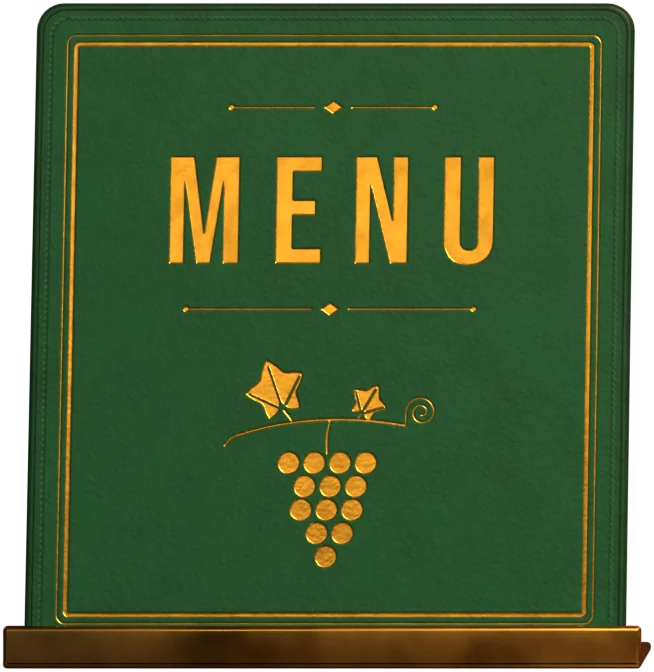
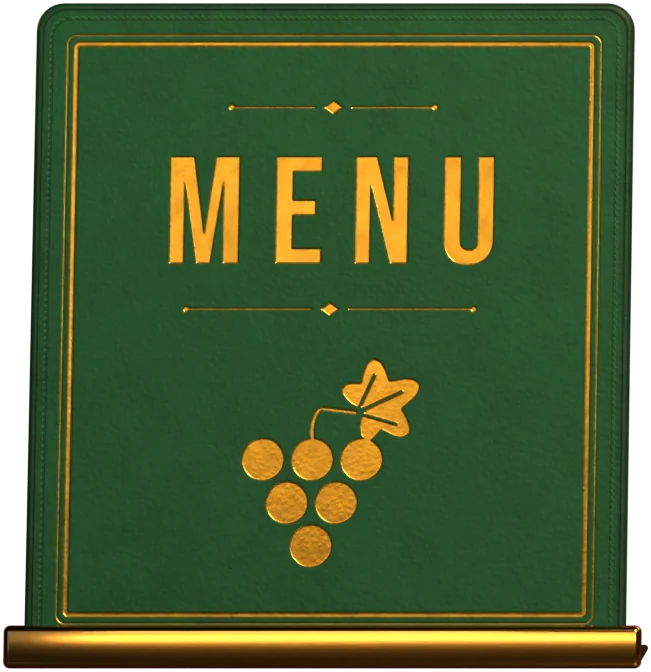
Prototype E: re-render the menu, honey jar and die after the fix round
Claude-Session: https://claude.ai/code/session_017R8H9itpLZ3XvmvTMCx8dX

diff --git a/prototypes/e-rendered/layers.js b/prototypes/e-rendered/layers.js
@@ -47,9 +47,9 @@ const LAYERS = {
  "touch": {
   "menu": {
    "src": "img/touch-menu.webp",
-   "x": 459.61,
+   "x": 459.55,
    "y": 538.38,
-   "w": 109.0,
+   "w": 108.5,
    "h": 112.0
   },
   "honey": {
@@ -61,10 +61,10 @@ const LAYERS = {
   },
   "dice": {
    "src": "img/touch-dice.webp",
-   "x": 918.91,
-   "y": 623.72,
-   "w": 38.4,
-   "h": 32.6
+   "x": 915.3,
+   "y": 623.74,
+   "w": 41.6,
+   "h": 32.4
   },
   "panther": {
    "src": "img/touch-panther.webp",
@@ -359,4 +359,4 @@ const LAYERS = {
   "quick": false
  }
 };
-const RENDER_LOG = [{"layer": "panther_preview", "px": [1313, 1352], "samples": 48, "seconds": 33.8}, {"layer": "t_menu", "px": [816, 834], "samples": 64, "seconds": 54.9}, {"layer": "t_honey", "px": [371, 570], "samples": 64, "seconds": 29.6}, {"layer": "t_dice", "px": [426, 308], "samples": 64, "seconds": 10.7}, {"layer": "t_panther", "px": [788, 811], "samples": 64, "seconds": 33.0}, {"layer": "bg_bar", "px": [2000, 2000], "samples": 64, "seconds": 311.0}, {"layer": "bg_sign", "px": [1480, 460], "samples": 64, "seconds": 63.4}, {"layer": "bg_shelf", "px": [1672, 1065], "samples": 64, "seconds": 178.5}, {"layer": "bg_mid", "px": [2222, 1232], "samples": 64, "seconds": 243.6}, {"layer": "bg_menu", "px": [1380, 1080], "samples": 48, "seconds": 108.7}, {"layer": "bg_sign_off", "px": [1480, 460], "samples": 64, "seconds": 54.1}, {"layer": "b_bourbon", "px": [182, 292], "samples": 160, "seconds": 17.4}, {"layer": "b_rye", "px": [158, 294], "samples": 160, "seconds": 9.2}, {"layer": "b_blended_scotch", "px": [169, 292], "samples": 160, "seconds": 16.6}, {"layer": "b_islay_scotch", "px": [174, 292], "samples": 160, "seconds": 8.1}, {"layer": "b_irish_whiskey", "px": [156, 294], "samples": 160, "seconds": 11.4}, {"layer": "b_london_dry_gin", "px": [112, 289], "samples": 160, "seconds": 7.6}, {"layer": "b_white_rum", "px": [156, 285], "samples": 160, "seconds": 7.4}, {"layer": "b_tequila", "px": [129, 294], "samples": 160, "seconds": 10.1}, {"layer": "b_vodka", "px": [103, 286], "samples": 160, "seconds": 7.9}, {"layer": "b_cognac", "px": [176, 289], "samples": 160, "seconds": 7.1}, {"layer": "b_sweet_vermouth", "px": [123, 274], "samples": 160, "seconds": 8.9}, {"layer": "b_dry_vermouth", "px": [122, 274], "samples": 160, "seconds": 8.9}, {"layer": "b_campari", "px": [123, 274], "samples": 160, "seconds": 6.0}, {"layer": "b_aperol", "px": [125, 274], "samples": 160, "seconds": 6.0}, {"layer": "b_amaro_nonino", "px": [124, 274], "samples": 160, "seconds": 5.9}, {"layer": "b_triple_sec", "px": [100, 286], "samples": 160, "seconds": 5.3}, {"layer": "b_amaretto", "px": [170, 289], "samples": 160, "seconds": 14.7}, {"layer": "b_cherry_heering", "px": [178, 289], "samples": 160, "seconds": 6.4}, {"layer": "b_ginger_wine", "px": [122, 274], "samples": 160, "seconds": 5.7}, {"layer": "b_coffee_liqueur", "px": [154, 285], "samples": 160, "seconds": 13.0}, {"layer": "b_angostura_bitters", "px": [96, 201], "samples": 160, "seconds": 2.7}, {"layer": "b_orange_bitters", "px": [95, 201], "samples": 160, "seconds": 2.2}, {"layer": "b_ginger_ale", "px": [101, 218], "samples": 160, "seconds": 4.2}, {"layer": "b_ginger_beer", "px": [98, 218], "samples": 160, "seconds": 3.9}, {"layer": "b_soda_water", "px": [102, 218], "samples": 160, "seconds": 8.3}, {"layer": "b_tonic_water", "px": [100, 218], "samples": 160, "seconds": 8.2}];
+const RENDER_LOG = [{"layer": "panther_preview", "px": [1313, 1352], "samples": 48, "seconds": 33.8}, {"layer": "bg_bar", "px": [2000, 2000], "samples": 64, "seconds": 311.0}, {"layer": "bg_sign", "px": [1480, 460], "samples": 64, "seconds": 63.4}, {"layer": "bg_shelf", "px": [1672, 1065], "samples": 64, "seconds": 178.5}, {"layer": "bg_mid", "px": [2222, 1232], "samples": 64, "seconds": 243.6}, {"layer": "bg_menu", "px": [1380, 1080], "samples": 48, "seconds": 108.7}, {"layer": "bg_sign_off", "px": [1480, 460], "samples": 64, "seconds": 54.1}, {"layer": "b_bourbon", "px": [182, 292], "samples": 160, "seconds": 17.4}, {"layer": "b_rye", "px": [158, 294], "samples": 160, "seconds": 9.2}, {"layer": "b_blended_scotch", "px": [169, 292], "samples": 160, "seconds": 16.6}, {"layer": "b_islay_scotch", "px": [174, 292], "samples": 160, "seconds": 8.1}, {"layer": "b_irish_whiskey", "px": [156, 294], "samples": 160, "seconds": 11.4}, {"layer": "b_london_dry_gin", "px": [112, 289], "samples": 160, "seconds": 7.6}, {"layer": "b_white_rum", "px": [156, 285], "samples": 160, "seconds": 7.4}, {"layer": "b_tequila", "px": [129, 294], "samples": 160, "seconds": 10.1}, {"layer": "b_vodka", "px": [103, 286], "samples": 160, "seconds": 7.9}, {"layer": "b_cognac", "px": [176, 289], "samples": 160, "seconds": 7.1}, {"layer": "b_sweet_vermouth", "px": [123, 274], "samples": 160, "seconds": 8.9}, {"layer": "b_dry_vermouth", "px": [122, 274], "samples": 160, "seconds": 8.9}, {"layer": "b_campari", "px": [123, 274], "samples": 160, "seconds": 6.0}, {"layer": "b_aperol", "px": [125, 274], "samples": 160, "seconds": 6.0}, {"layer": "b_amaro_nonino", "px": [124, 274], "samples": 160, "seconds": 5.9}, {"layer": "b_triple_sec", "px": [100, 286], "samples": 160, "seconds": 5.3}, {"layer": "b_amaretto", "px": [170, 289], "samples": 160, "seconds": 14.7}, {"layer": "b_cherry_heering", "px": [178, 289], "samples": 160, "seconds": 6.4}, {"layer": "b_ginger_wine", "px": [122, 274], "samples": 160, "seconds": 5.7}, {"layer": "b_coffee_liqueur", "px": [154, 285], "samples": 160, "seconds": 13.0}, {"layer": "b_angostura_bitters", "px": [96, 201], "samples": 160, "seconds": 2.7}, {"layer": "b_orange_bitters", "px": [95, 201], "samples": 160, "seconds": 2.2}, {"layer": "b_ginger_ale", "px": [101, 218], "samples": 160, "seconds": 4.2}, {"layer": "b_ginger_beer", "px": [98, 218], "samples": 160, "seconds": 3.9}, {"layer": "b_soda_water", "px": [102, 218], "samples": 160, "seconds": 8.3}, {"layer": "b_tonic_water", "px": [100, 218], "samples": 160, "seconds": 8.2}, {"layer": "t_menu", "px": [814, 833], "samples": 64, "seconds": 47.2}, {"layer": "t_honey", "px": [371, 570], "samples": 64, "seconds": 24.7}, {"layer": "t_dice", "px": [451, 310], "samples": 64, "seconds": 10.1}, {"layer": "t_panther", "px": [788, 811], "samples": 64, "seconds": 28.7}];
